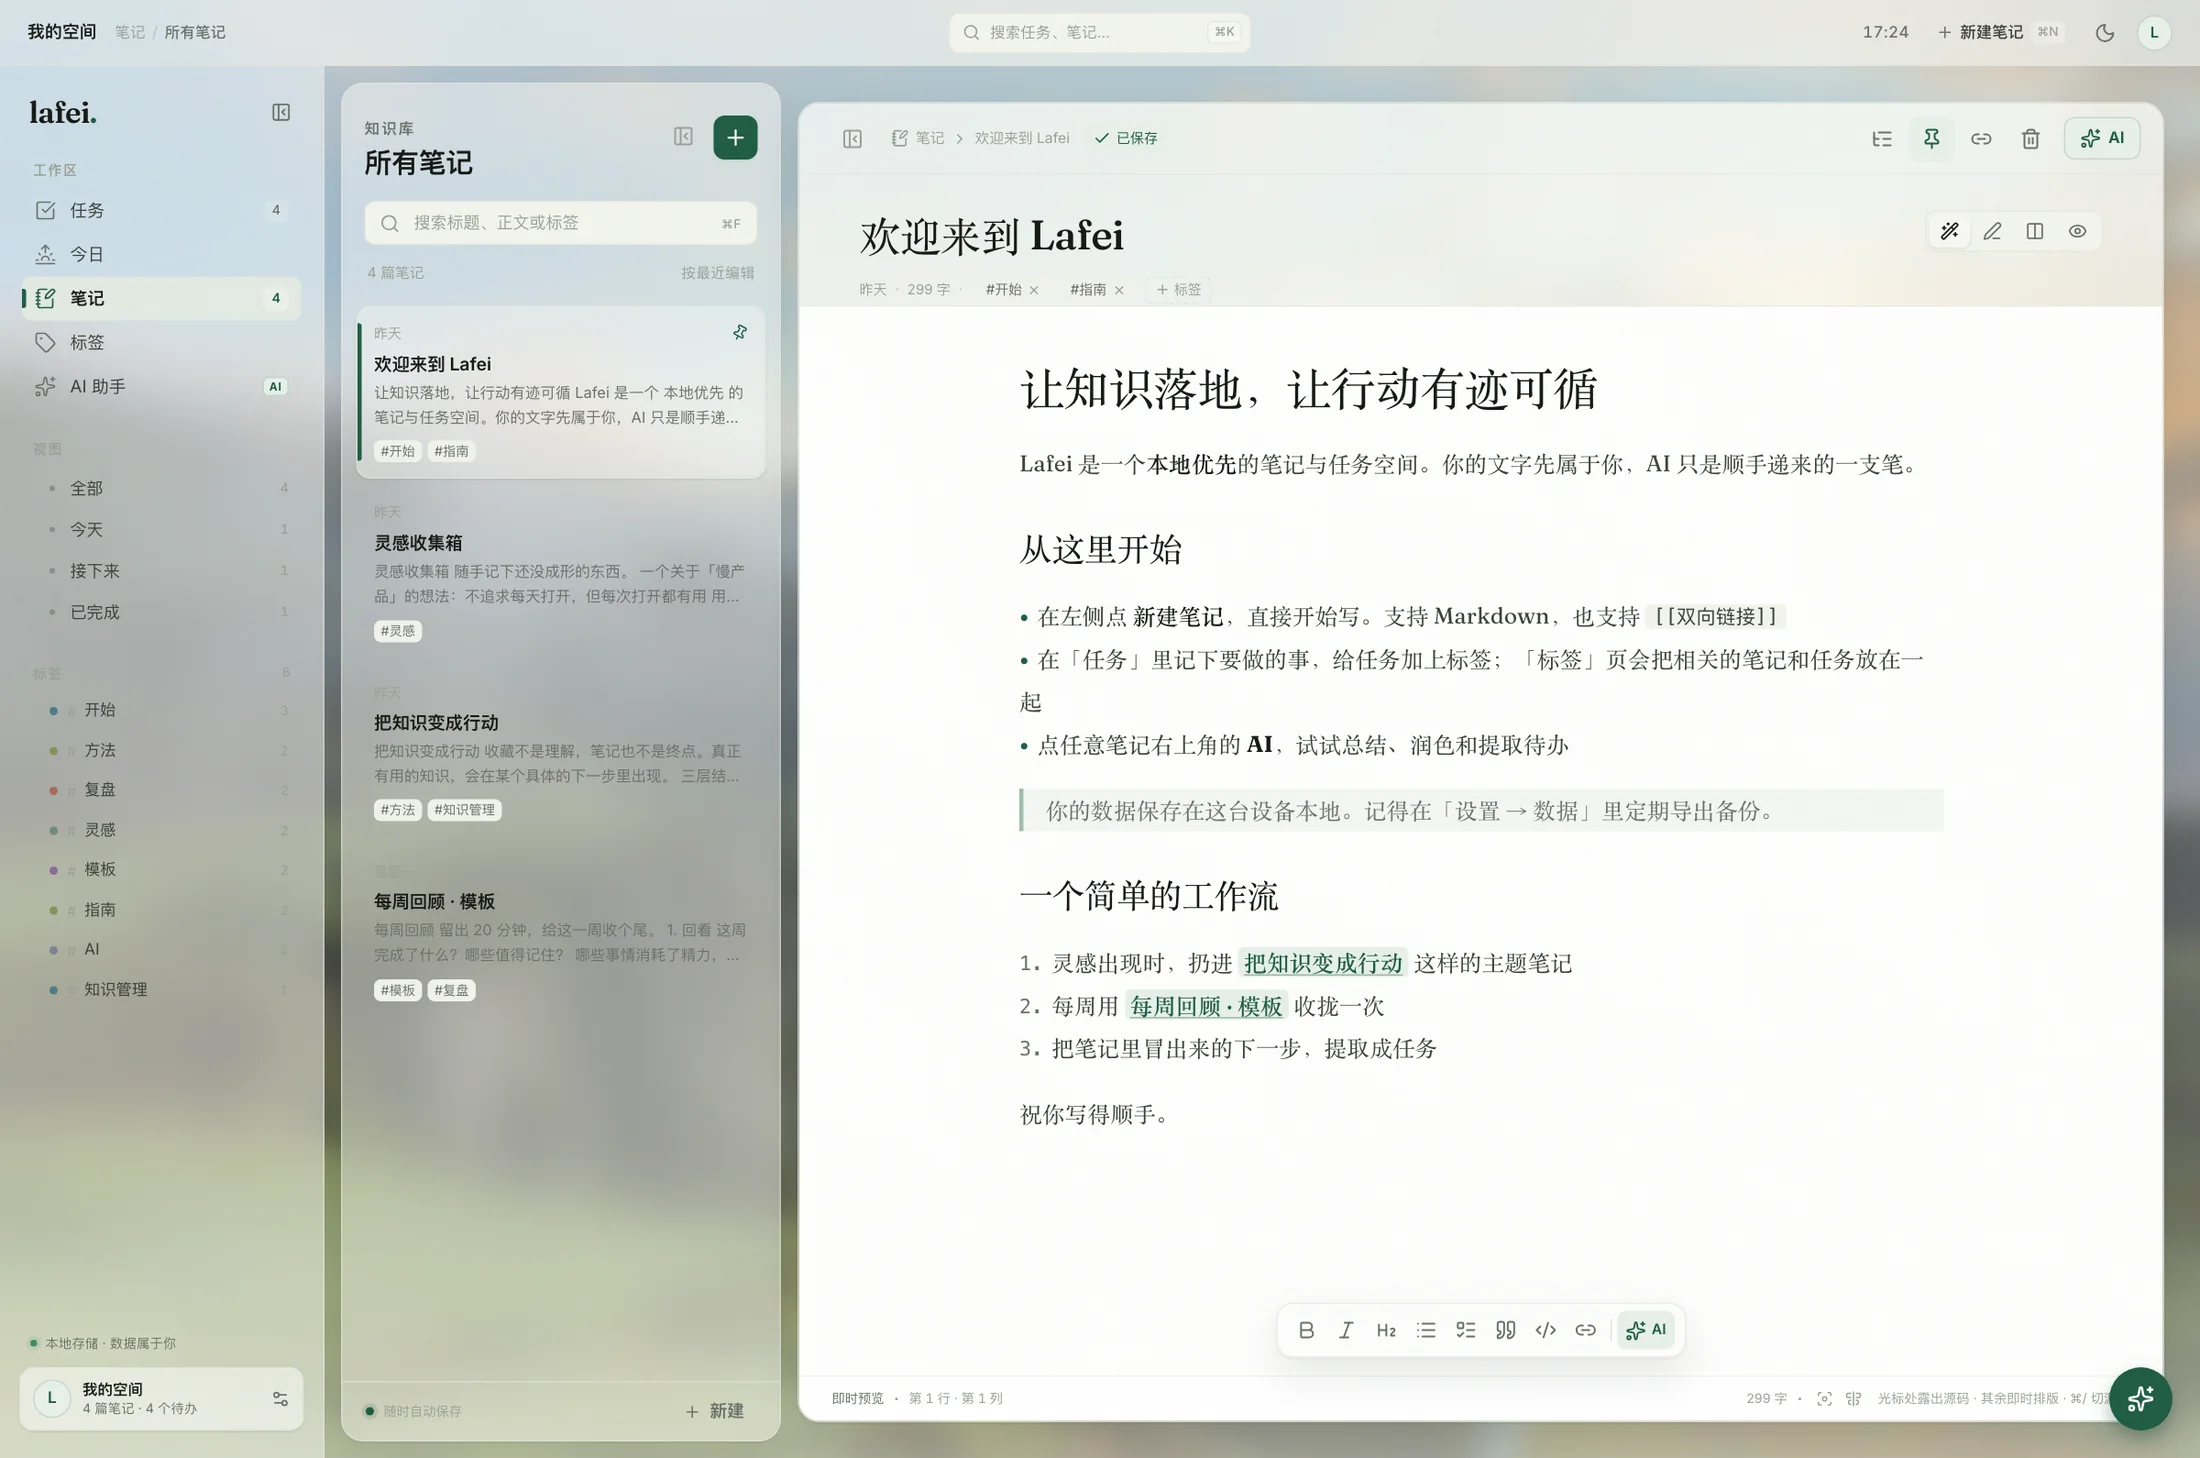
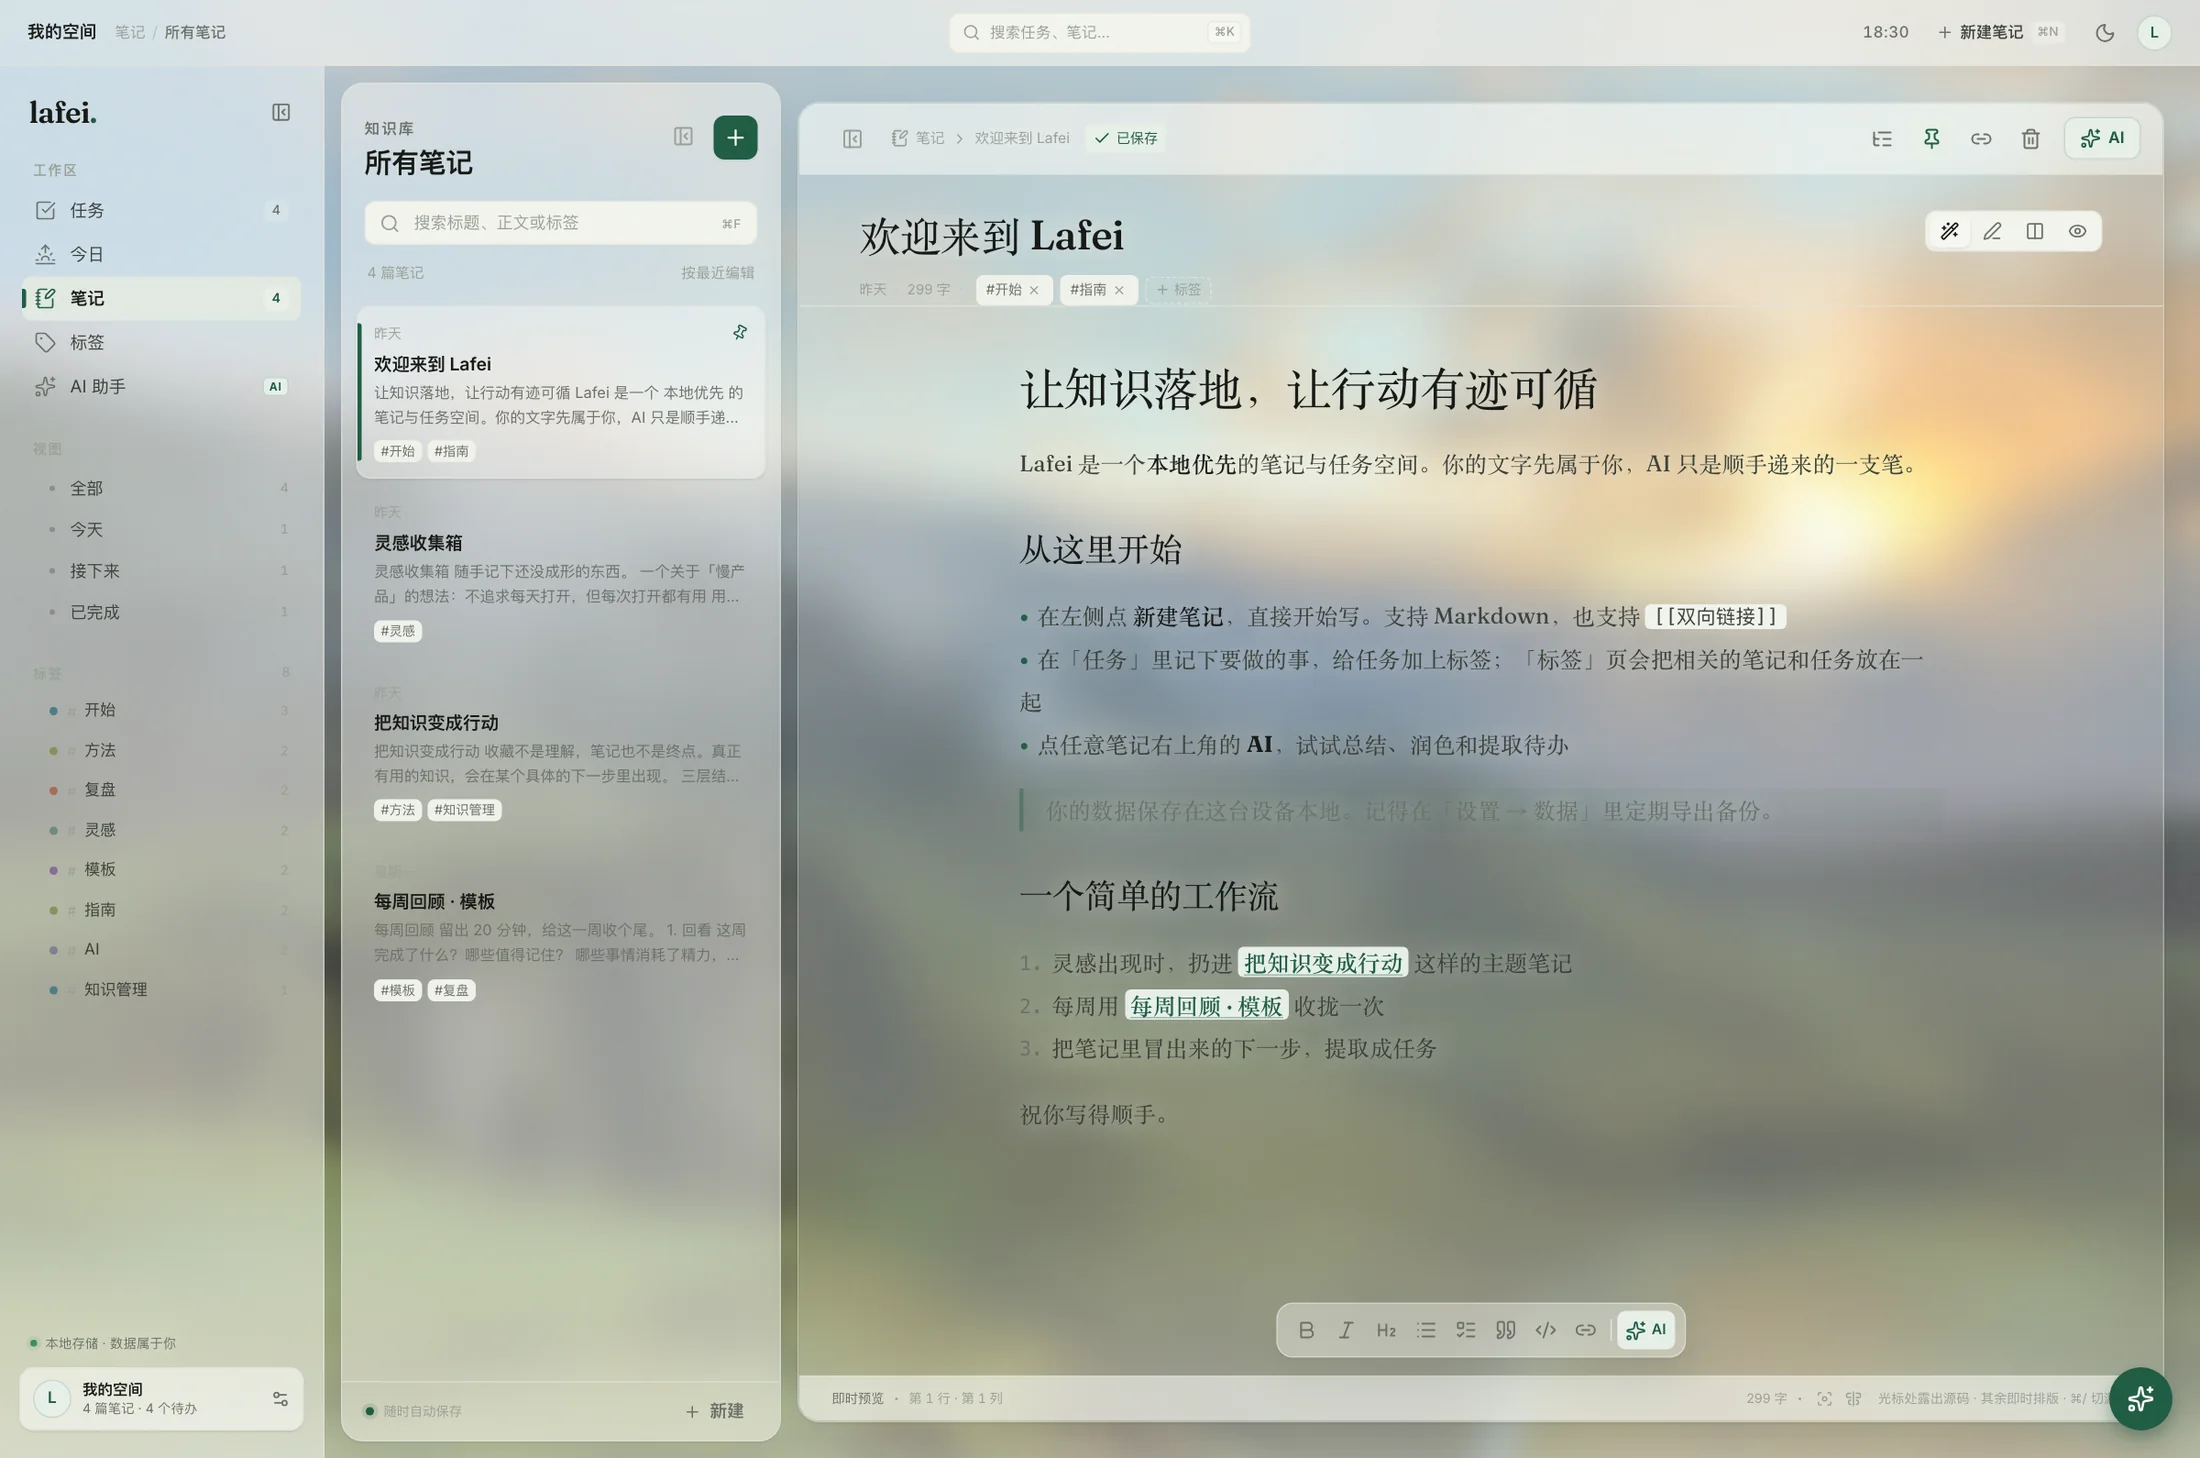
chore(release): 0.22.5 — 笔记正文也直接坐在背景上
- 编辑器拍平纸面层（editor-body 等），正文只留 12% 薄雾（通透档），笔记内容透出背景
- 实时预览 / 源码 / 分栏 / 阅读四种模式一致；顶栏与状态栏保留玻璃条，正文加同色柔光
- 笔记页截图与 README / CHANGELOG 同步

diff --git a/src/wallpaper.css b/src/wallpaper.css
@@ -136,6 +136,7 @@ html[data-wallpaper="on"][data-wallpaper-glass="clear"] {
   --wp-side-a: 0.48;
   --wp-top-a: 0.54;
   --wp-read-a: 0.62;
+  --wp-note-a: 0.12;
 }
 
 html[data-wallpaper="on"][data-wallpaper-glass="balanced"] {
@@ -143,6 +144,7 @@ html[data-wallpaper="on"][data-wallpaper-glass="balanced"] {
   --wp-side-a: 0.66;
   --wp-top-a: 0.72;
   --wp-read-a: 0.82;
+  --wp-note-a: 0.4;
 }
 
 html[data-wallpaper="on"][data-wallpaper-glass="solid"] {
@@ -150,11 +152,36 @@ html[data-wallpaper="on"][data-wallpaper-glass="solid"] {
   --wp-side-a: 0.9;
   --wp-top-a: 0.92;
   --wp-read-a: 0.95;
+  --wp-note-a: 0.7;
 }
 
-/* 长文阅读面再多一点底，正文不受背景干扰 */
+/* 笔记正文：把所有纸面层拍平，只留一层薄雾，正文直接坐在背景上 */
+html[data-wallpaper="on"] .editor-shell,
+html[data-wallpaper="on"] .editor-body,
+html[data-wallpaper="on"] .editor-live,
+html[data-wallpaper="on"] .editor-read,
+html[data-wallpaper="on"] .editor-write,
+html[data-wallpaper="on"] .editor-preview {
+  background: transparent;
+}
+
 html[data-wallpaper="on"] .editor-main {
-  background: rgb(var(--wall-glass-rgb) / calc(var(--wp-read-a, 0.92) + var(--wp-alpha-bonus, 0)));
+  background: rgb(var(--wall-glass-rgb) / calc(var(--wp-note-a, 0.12) + var(--wp-alpha-bonus, 0)));
+  text-shadow: 0 0 18px color-mix(in srgb, var(--wall-tint) 75%, transparent);
+}
+
+html[data-wallpaper="on"] .editor-title-input,
+html[data-wallpaper="on"] .editor-statusbar,
+html[data-wallpaper="on"] .editor-topbar {
+  text-shadow: 0 0 18px color-mix(in srgb, var(--wall-tint) 75%, transparent);
+}
+
+/* 编辑器顶栏 / 状态栏留一条玻璃，按钮和行列信息不至于糊在照片上 */
+html[data-wallpaper="on"] .editor-topbar,
+html[data-wallpaper="on"] .editor-statusbar {
+  background: rgb(var(--wall-glass-rgb) / calc(var(--wp-card-a, 0.36) + 0.14 + var(--wp-alpha-bonus, 0)));
+  backdrop-filter: blur(16px) saturate(1.1);
+  -webkit-backdrop-filter: blur(16px) saturate(1.1);
 }
 
 /* --------------------------------------------------------------------------

diff --git a/README.md b/README.md
@@ -39,7 +39,7 @@
 
 | 平台 | 版本 | 说明 |
 | --- | --- | --- |
-| macOS（Apple Silicon） | [v0.22.4](https://github.com/tangf-ai/lafei/releases/latest) | `Lafei-0.22.4-macOS-arm64.dmg`，ad-hoc 签名、未公证；首次打开如被拦截，右键应用选「打开」 |
+| macOS（Apple Silicon） | [v0.22.5](https://github.com/tangf-ai/lafei/releases/latest) | `Lafei-0.22.5-macOS-arm64.dmg`，ad-hoc 签名、未公证；首次打开如被拦截，右键应用选「打开」 |
 | Web / PWA | 源码构建 | `pnpm build` 后把 `dist/` 部署到任意静态托管 |
 | Windows / Linux | 源码构建 | Tauri 2 支持，暂未提供预编译包 |
 
@@ -180,7 +180,7 @@
 - 应用铺满整个窗口，外圈不留空隙
 - 背景跟随主题：玻璃底色、遮罩和页脚柔光会切换成对应主题的纸色或墨色
 - 图片保存在本机 IndexedDB 的 `assets` 表（最长边自动压到 3200px），不上传、不进备份，也不随数据仓库同步；换图时会自动删掉上一张
-- 任务页与笔记页也能看到背景：四象限不再铺纸，任务行直接坐在背景上，只留格头的淡色和发丝线；笔记是浮在背景上的两块纸面，列表与编辑器之间留出背景
+- 任务页与笔记页也能看到背景：四象限不再铺纸，任务行直接坐在背景上，只留格头的淡色和发丝线；笔记列表是玻璃，编辑器正文直接坐在背景上，只留 12% 薄雾
 - 手机端同样铺满，并只在顶栏和底栏做玻璃，减少滚动区域的合成开销
 
 | 自己的照片 | 深色主题 |
@@ -233,9 +233,9 @@ pnpm desktop:build   # 生成 .app / .dmg（macOS）或对应平台安装包
 macOS 构建产物：
 
 ```text
-Lafei-0.22.4-macOS-arm64.dmg                                      # 可直接分发的安装包
+Lafei-0.22.5-macOS-arm64.dmg                                      # 可直接分发的安装包
 src-tauri/target/release/bundle/macos/Lafei.app                  # 未打包的应用
-src-tauri/target/release/bundle/dmg/Lafei_0.22.4_aarch64.dmg      # Tauri 原始产物
+src-tauri/target/release/bundle/dmg/Lafei_0.22.5_aarch64.dmg      # Tauri 原始产物
 ```
 
 > 构建产物（`.app` / `.dmg`）不进入 Git，正式版本请通过 GitHub Releases 分发。当前本地产物是 Apple Silicon（arm64）版本，使用 ad-hoc 签名，未做 Apple 公证；若系统提示无法验证，右键应用选择「打开」，或在终端执行：
@@ -431,7 +431,7 @@ scripts/mock-ai.mjs 本地 AI 演示服务
 
 ## 已知限制
 
-这是 `0.22.4`，一个可以真实日用的本地 MVP，但不是完成品：
+这是 `0.22.5`，一个可以真实日用的本地 MVP，但不是完成品：
 
 - 文件夹同步是文件级的、最终一致的，不是实时协作；冲突采用更新时间优先，没有逐行合并
 - 手机 PWA 不能直接读取 iCloud Drive；目前需要备份迁移，原生 iOS 版尚未生成

diff --git a/CHANGELOG.md b/CHANGELOG.md
@@ -3,6 +3,14 @@
 所有值得记录的变更都会写在这里。格式参考 [Keep a Changelog](https://keepachangelog.com/zh-CN/1.1.0/)，
 版本号遵循 [Semantic Versioning](https://semver.org/lang/zh-CN/)。
 
+## [0.22.5] - 2026-11-13
+
+### Changed
+
+- 笔记正文也能看到背景：编辑器不再叠纸，只留 12% 的薄雾（通透档），正文直接坐在背景上；编辑器顶栏和状态栏保留一条玻璃，正文、标题和小字加同色柔光
+- 实时预览 / 源码 / 分栏 / 阅读四种模式一起拍平了编辑器里的纸面层（`.editor-body` 等），切模式不会再突然变回白纸
+- 笔记页截图同步更新
+
 ## [0.22.4] - 2026-11-13
 
 ### Changed
